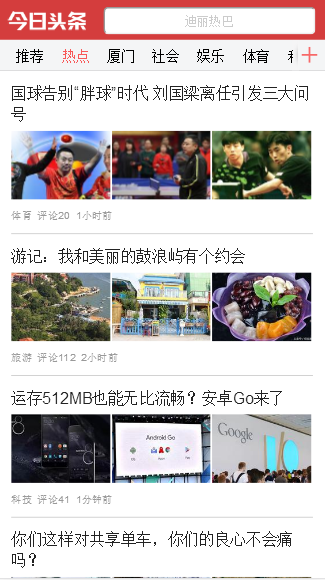
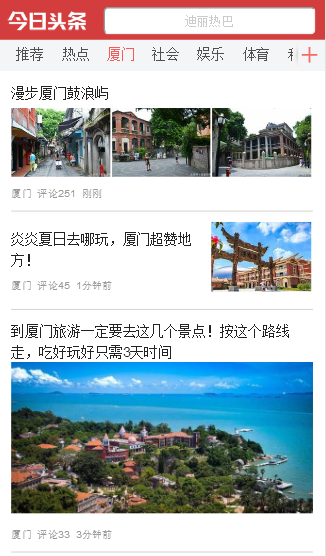
修改字体以及预览图

diff --git a/src/components/content.vue b/src/components/content.vue
@@ -293,7 +293,7 @@ white-space: nowrap; //文本不换行，这样超出一行的部分被截取，
   margin-top: 84px;
   -webkit-overflow-scrolling:touch;
   overflow-y: auto;
-  height: 700px;
+  height: 100%;
   .mint-loadmore-top,.mint-loadmore-bottom span {
   font-size: 16px;
   }
@@ -376,7 +376,7 @@ white-space: nowrap; //文本不换行，这样超出一行的部分被截取，
       line-height: 12px;
       float: left;
       color: #999;
-      font-size: 10px;
+      font-size: 8px;
       }
     }
   }

diff --git a/src/components/nav.vue b/src/components/nav.vue
@@ -398,9 +398,9 @@ export default {
     -webkit-overflow-scrolling:touch;
     .a {
       //color: #f85959;
-    margin: 0 0 3px 20px;
+    margin: 0 0 4px 20px;
     height: 36px;
-    line-height: 36px;
+    line-height: 32px;
     font-size: 16px;
     color: #505050;
 
@@ -457,7 +457,7 @@ export default {
     text-decoration: none;
   }
   .active {
-    color: #f85959;
+    color: #f85959 !important;
   }
 }
 </style>
